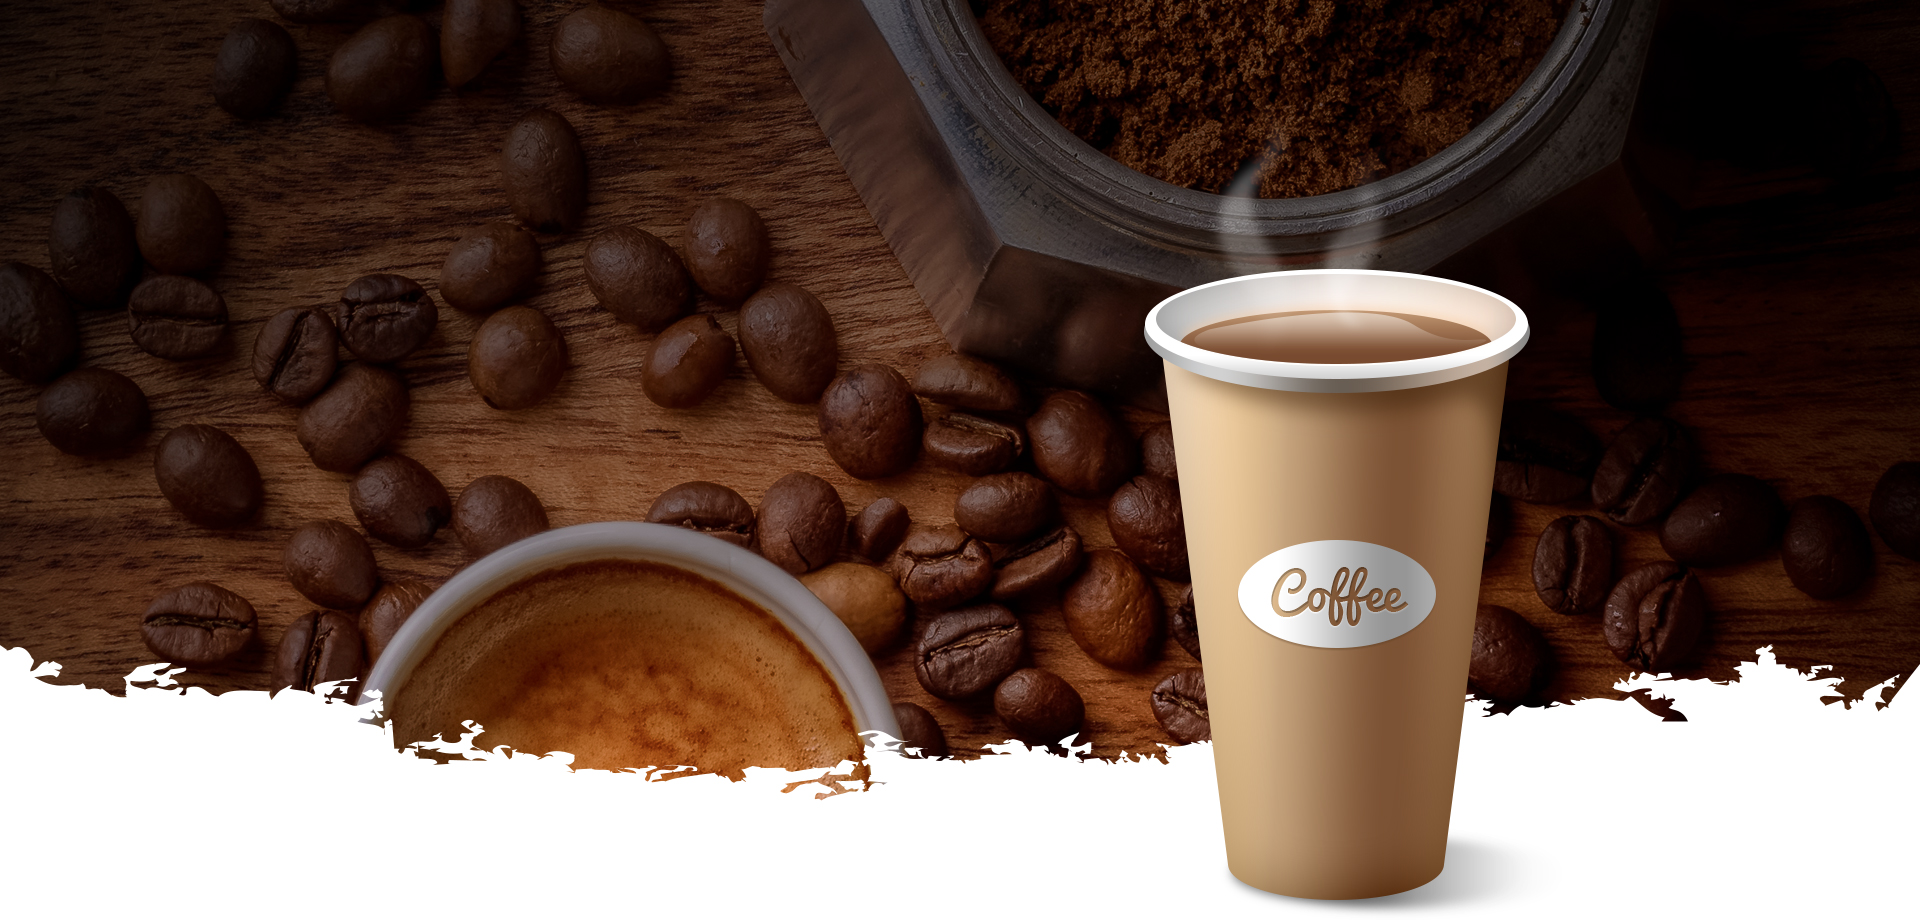
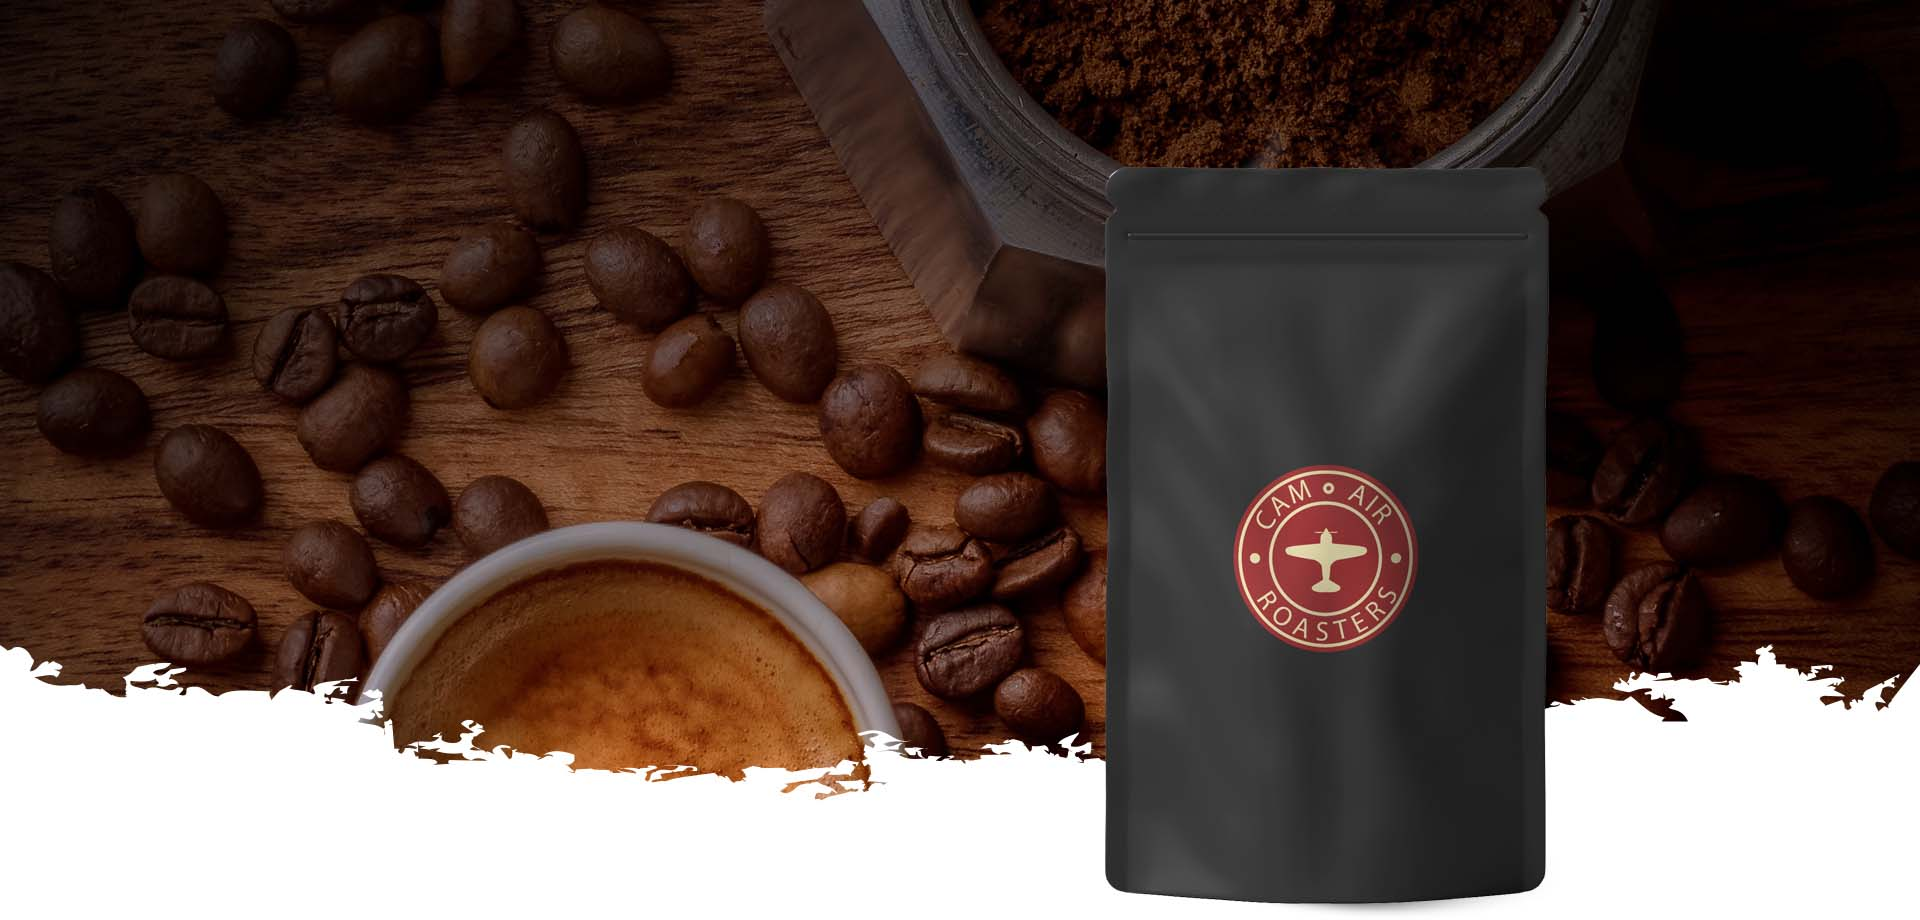
d

Changed region(s): [[0.5625, 0.1826, 0.8125, 1.0], [0.3125, 0.8217, 0.375, 0.8522], [0.4375, 0.8217, 0.4688, 0.8522]]

diff --git a/index.html b/index.html
@@ -32,25 +32,7 @@
 		<body>
 
 			  <header id="header" id="home">
-				<div class="header-top">
-		  			<div class="container">
-				  		<div class="row justify-content-end">
-				  			<div class="col-lg-8 col-sm-4 col-8 header-top-right no-padding">
-				  				<ul>
-				  					<li>
-				  						Mon-Fri: 8am to 2pm
-				  					</li>
-				  					<li>
-				  						Sat-Sun: 11am to 4pm
-				  					</li>
-				  					<li>
-				  						<a href="tel:(012) 6985 236 7512">(012) 6985 236 7512</a>
-				  					</li>				  					
-				  				</ul>
-				  			</div>
-				  		</div>			  					
-		  			</div>
-				</div>			  	
+						  	
 			    <div class="container">
 			    	<div class="row align-items-center justify-content-between d-flex">
 				      <div id="logo">
@@ -61,14 +43,7 @@
 				          <li class="menu-active"><a href="#home">Home</a></li>
 				          <li><a href="#about">About</a></li>
 				          <li><a href="#coffee">Coffee</a></li>
-				          <li><a href="#review">Review</a></li>
-				          <li><a href="#blog">Blog</a></li>
-				          <li class="menu-has-children"><a href="">Pages</a>
-				            <ul>
-				              <li><a href="generic.html">Generic</a></li>
-				              <li><a href="elements.html">Elements</a></li>
-				            </ul>
-				          </li>
+				         
 				        </ul>
 				      </nav><!-- #nav-menu-container -->		    		
 			    	</div>
@@ -81,12 +56,11 @@
 				<div class="container">
 					<div class="row fullscreen d-flex align-items-center justify-content-start">
 						<div class="banner-content col-lg-7">
-							<h6 class="text-white text-uppercase">Now you can feel the Energy</h6>
-							<h1>
-								Start your day with <br>
-								a black Coffee				
+							
+							<h1 style="margin-top: 100px;">
+								Air Roasted Coffee, the best way to enjoy your brew. 			
 							</h1>
-							<a href="#" class="primary-btn text-uppercase">Buy Now</a>
+							<a href="https://buy.stripe.com/eVag315Sa84F3ok4gh" target="_blank" class="primary-btn text-uppercase">Buy Now</a>
 						</div>											
 					</div>
 				</div>
